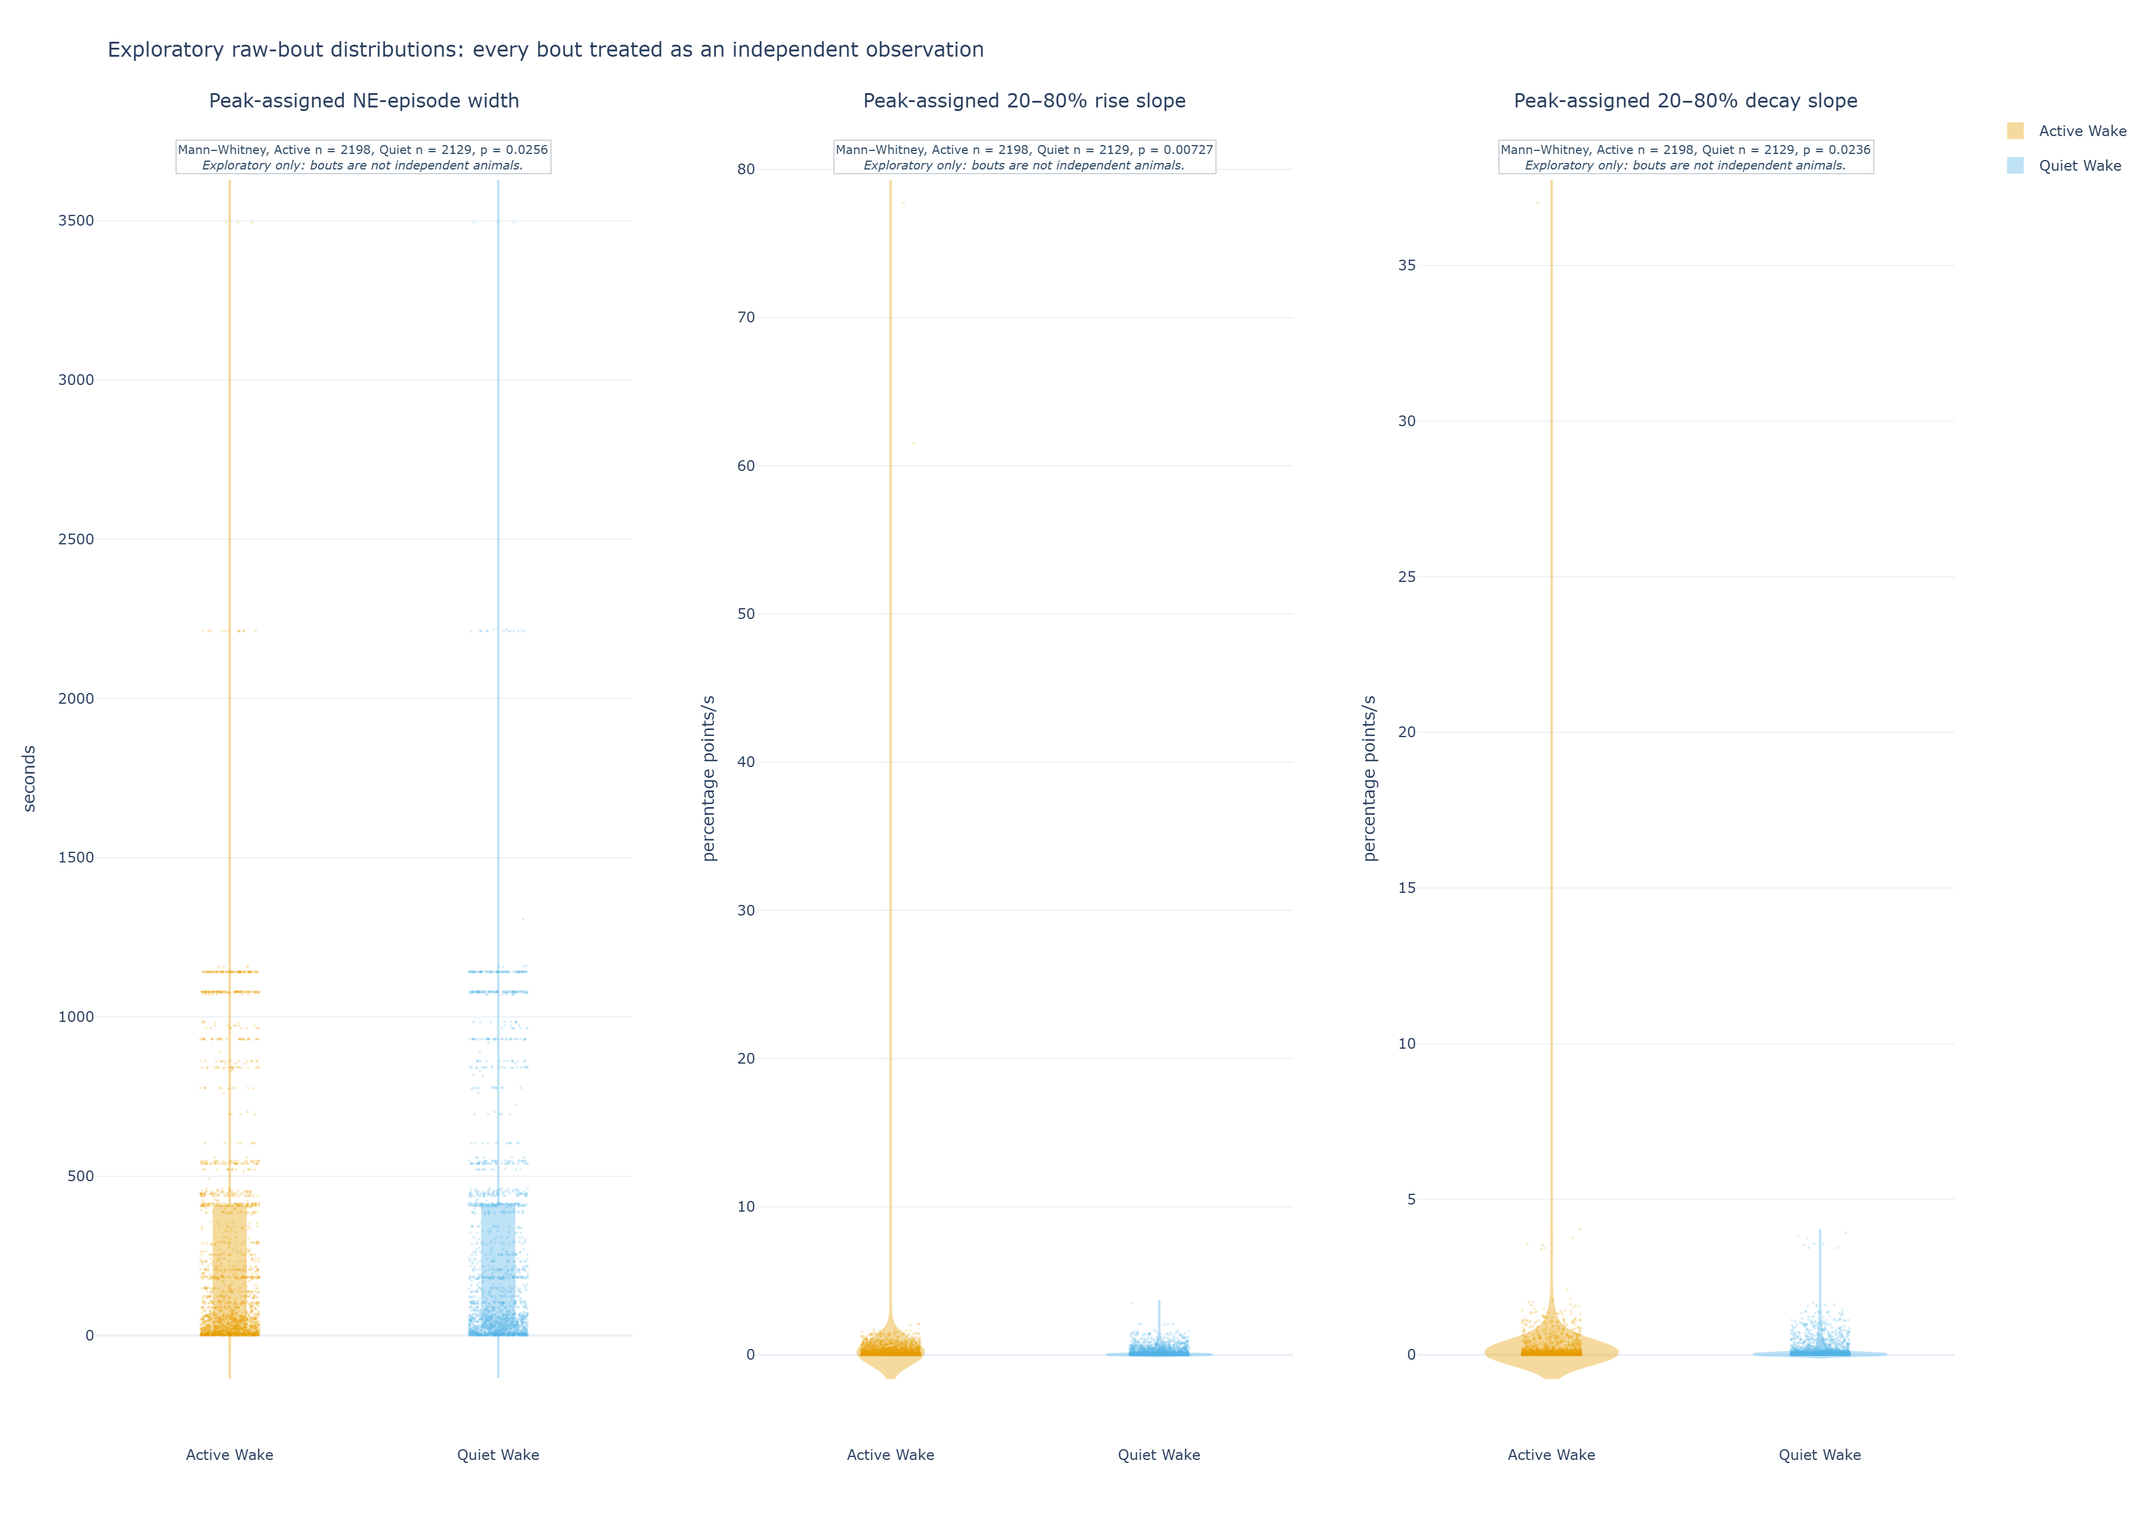
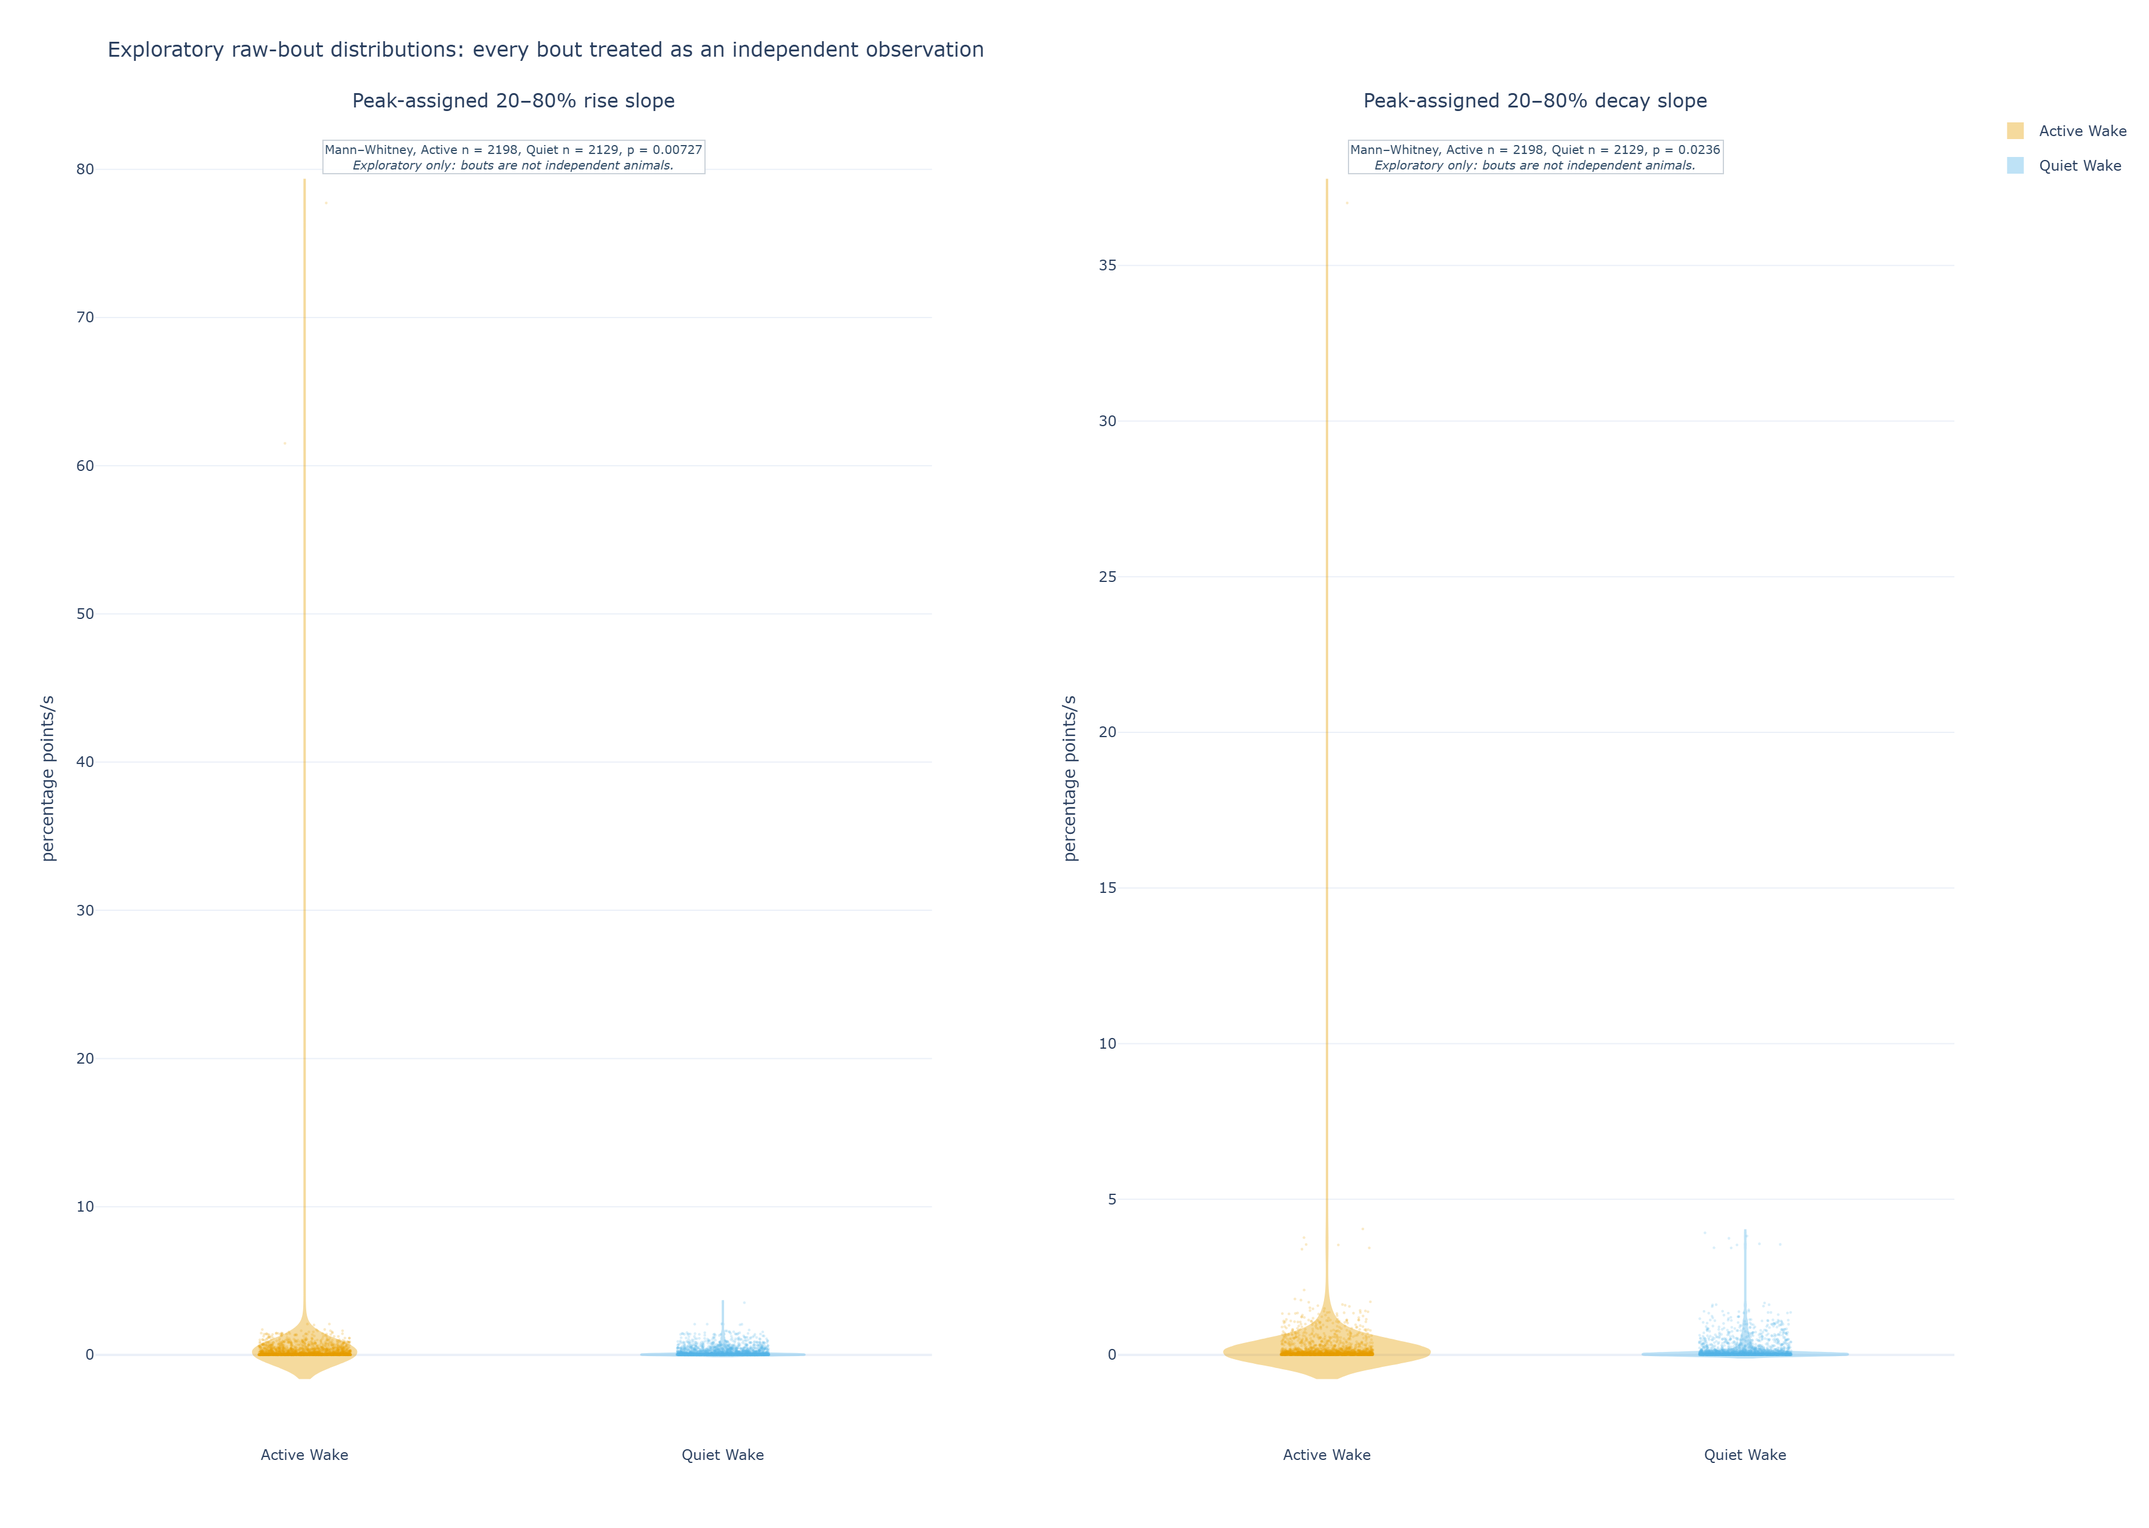
Remove raw shape width from report
- Focus public results on bout means, score geometry, slopes, and spectra
- Retain raw crossing width only as an audit field supporting slope calculations

diff --git a/scripts/render_raw_bout_report_figures.py b/scripts/render_raw_bout_report_figures.py
@@ -19,12 +19,10 @@ RECORDING_METRICS = [
     ("raw_bout_mean", "Mean NE within score bout", "processed NE (percentage delta-F/F)"),
     ("score_bout_duration_seconds", "Actual score-bout duration", "seconds"),
     ("score_bout_count", "Number of score bouts", "count"),
-    ("duration_seconds", "Peak-assigned NE-episode width", "seconds"),
     ("rise_slope", "Peak-assigned 20–80% rise slope", "percentage points/s"),
     ("decay_slope", "Peak-assigned 20–80% decay slope", "percentage points/s"),
 ]
 INDEPENDENT_BOUT_METRICS = [
-    ("duration_seconds", "Peak-assigned NE-episode width", "seconds"),
     ("rise_slope", "Peak-assigned 20–80% rise slope", "percentage points/s"),
     ("decay_slope", "Peak-assigned 20–80% decay slope", "percentage points/s"),
 ]
@@ -155,7 +153,7 @@ def raw_bout_mean_example_figure(bouts: pd.DataFrame):
         annotation_font={"size": 11, "color": "#05668d"},
     )
     figure.add_annotation(
-        x=chosen.peak_seconds, y=chosen.raw_peak, text="Peak anchors episode width/slopes",
+        x=chosen.peak_seconds, y=chosen.raw_peak, text="Peak anchors the slope measurements",
         showarrow=True, arrowhead=2, ax=0, ay=-42, bgcolor="rgba(255,255,255,0.92)",
         bordercolor="#334e68", font={"size": 11, "color": "#334e68"},
     )
@@ -172,7 +170,7 @@ def raw_bout_mean_example_figure(bouts: pd.DataFrame):
         x=0.5, y=-0.31, xref="paper", yref="paper",
         text=("Orange = Active Wake; light blue = Quiet Wake; gray = other state. "
               "The dashed line is the reported per-bout mean; no local baseline is applied. "
-              "The marked literal maximum remains only to anchor the peak-assigned width and slopes, whose crossings may cross score boundaries."),
+               "The marked literal maximum remains only to anchor the peak-assigned slopes, whose crossings may cross score boundaries."),
         showarrow=False, font={"size": 12, "color": "#52606d"},
     )
     return figure
@@ -182,9 +180,9 @@ def metric_figure(recordings: pd.DataFrame, results: pd.DataFrame):
     import plotly.graph_objects as go
     from plotly.subplots import make_subplots
 
-    figure = make_subplots(rows=3, cols=2, subplot_titles=[label for _, label, _ in RECORDING_METRICS])
+    figure = make_subplots(rows=2, cols=3, subplot_titles=[label for _, label, _ in RECORDING_METRICS])
     for index, (metric, label, unit) in enumerate(RECORDING_METRICS):
-        row, column = divmod(index, 2)
+        row, column = divmod(index, 3)
         row += 1
         column += 1
         paired = recordings[["recording_id", f"active_wake_{metric}_median", f"quiet_wake_{metric}_median"]].dropna()
@@ -221,7 +219,7 @@ def metric_figure(recordings: pd.DataFrame, results: pd.DataFrame):
     figure.update_layout(
         template="plotly_white",
         title="Exploratory raw-bout comparison: each MAT file treated as one recording",
-        height=1450,
+        height=1000,
         margin={"l": 80, "r": 30, "t": 95, "b": 70},
     )
     return figure
@@ -233,7 +231,7 @@ def independent_bout_metric_figure(bouts: pd.DataFrame, results: pd.DataFrame, s
     from plotly.subplots import make_subplots
 
     figure = make_subplots(
-        rows=1, cols=3, subplot_titles=[label for _, label, _ in INDEPENDENT_BOUT_METRICS]
+        rows=1, cols=2, subplot_titles=[label for _, label, _ in INDEPENDENT_BOUT_METRICS]
     )
     rng = np.random.default_rng(seed)
     for index, (metric, label, unit) in enumerate(INDEPENDENT_BOUT_METRICS):

diff --git a/tests/test_pipeline.py b/tests/test_pipeline.py
@@ -349,10 +349,11 @@ def test_raw_bout_independent_screen_uses_each_eligible_bout():
     bouts, _ = analyze_raw_bouts(source)
     results = independent_bout_results(bouts)
     assert "raw_bout_mean" not in results.metric.tolist()
-    width = results.loc[results.metric == "duration_seconds"].iloc[0]
-    assert width.n_active_bouts == 1
-    assert width.n_quiet_bouts == 1
-    assert np.isfinite(width.p_value)
+    assert "duration_seconds" not in results.metric.tolist()
+    rise = results.loc[results.metric == "rise_slope"].iloc[0]
+    assert rise.n_active_bouts == 1
+    assert rise.n_quiet_bouts == 1
+    assert np.isfinite(rise.p_value)
 
 
 def test_raw_spectral_screen_uses_common_start_windows(tmp_path):

diff --git a/wake_ne_analysis/raw_bouts.py b/wake_ne_analysis/raw_bouts.py
@@ -28,12 +28,11 @@ from .transients import crossing
 # peak-assigned episode width and slopes.  It is not a reported comparison metric:
 # the recording-level signal measure is the mean saved NE value in each score run.
 RAW_METRICS = ("raw_bout_mean", "duration_seconds", "rise_slope", "decay_slope")
-INDEPENDENT_BOUT_METRICS = ("duration_seconds", "rise_slope", "decay_slope")
+INDEPENDENT_BOUT_METRICS = ("rise_slope", "decay_slope")
 RECORDING_METRICS = (
     "raw_bout_mean",
     "score_bout_duration_seconds",
     "score_bout_count",
-    "duration_seconds",
     "rise_slope",
     "decay_slope",
 )

diff --git a/docs/preliminary_recording_report.md b/docs/preliminary_recording_report.md
@@ -20,7 +20,7 @@ therefore useful recording units, but not independent biological animals.
   222 (152.5–396.5) and 226.5 (147.5–396.0; p = 0.164).
 - The pooled-bout table and plot intentionally omit mean NE. Different recordings
   can have different signal baselines and shared within-session structure. Pooled
-  widths and slopes are descriptive, pseudoreplicated distributions only.
+  slopes are descriptive, pseudoreplicated distributions only.
 - Short-window spectral power also has no recording-level signal (p = 0.922). All
   20 frequency maxima are band edges (17 at 0.20 Hz; 3 at 0.30 Hz), so no preferred
   frequency is resolved.
@@ -36,12 +36,11 @@ recording-level screens, not independent-mouse inference.
 | Mean processed NE within score bout (percentage delta-F/F) | 1.590 (0.565–2.148) | 1.604 (0.321–2.146) | n = 10 | 0.557; no nominal recording-level difference |
 | **Sleep-score bout duration (s)** | **4 (3–4)** | **2 (1.25–2)** | n = 10 | 0.00391; literal file-median score-run duration |
 | **Number of score bouts** | **222 (152.5–396.5)** | **226.5 (147.5–396.0)** | n = 10 | 0.164; literal file-level count |
-| Zero-referenced, peak-anchored NE shape width (s)† | 133.66 (22.56–350.77) | 137.72 (27.72–389.64) | n = 10 | 0.0645; contextual recording-level screen |
 | Zero-referenced, peak-anchored 20–80% NE rise slope (percentage points/s)† | 0.0545 (0.0301–0.1049) | 0.0631 (0.0301–0.0855) | n = 10 | 0.193; contextual recording-level screen |
 | Zero-referenced, peak-anchored 20–80% NE decay slope (percentage points/s)† | 0.0333 (0.0200–0.0791) | 0.0338 (0.0155–0.0759) | n = 10 | 0.625; contextual recording-level screen |
 
 †The literal within-bout maximum is retained only to anchor the unchanged
-zero-referenced width and slope calculations. It is not the reported signal-level
+zero-referenced slope calculations. It is not the reported signal-level
 comparison. Full shapes can cross saved score boundaries, so they are not
 sleep-score-bout measurements.
 
@@ -52,7 +51,6 @@ bouts only and must not be used as biological inference.
 | Reported measure | Active Wake | Quiet Wake | Active observations | Quiet observations | Nominal Mann–Whitney p-value |
 |---|---:|---:|---:|---:|---:|
 | **Sleep-score bout duration (s)** | **4 (2–10)** | **1 (1–3)** | 2,871 | 2,904 | 9.37 × 10⁻¹⁷⁴ |
-| Zero-referenced, peak-anchored NE shape width (s)† | 68.85 (14.97–406.99) | 87.64 (18.82–412.10) | 2,198 | 2,129 | 0.0256 |
 | Zero-referenced, peak-anchored 20–80% NE rise slope (percentage points/s)† | 0.0627 (0.0114–0.3149) | 0.0528 (0.0095–0.2660) | 2,198 | 2,129 | 0.00727 |
 | Zero-referenced, peak-anchored 20–80% NE decay slope (percentage points/s)† | 0.0434 (0.0081–0.1409) | 0.0334 (0.0069–0.1341) | 2,198 | 2,129 | 0.0236 |
 
@@ -117,17 +115,16 @@ waveform or the shape measurements below.
 ![Within-bout mean NE example](assets/recording_report_20260917/raw_bout_mean_example.png)
 
 **Figure 1.** The dashed line is the reported mean NE for the outlined Quiet score
-run. The marked maximum is retained only to define the existing zero-referenced shape
-width and slopes.
+run. The marked maximum is retained only to define the existing zero-referenced
+slopes.
 
-### Peak-anchored shape width and slopes
+### Peak-anchored slopes
 
 The preserved shape metrics choose the literal maximum inside each labelled run and
 locate 20% and 80% crossings relative to that raw, zero reference across the
-continuous finite trace. Width is the 20%-to-20% time; slopes are central 20–80%
-secants, reported as positive rise and decay magnitudes. They are not local-baseline
-event kinetics, T1/2 values, or score-bout durations, and their support can cross a
-score boundary.
+continuous finite trace. The reported slopes are central 20–80% secants, expressed
+as positive rise and decay magnitudes. They are not local-baseline event kinetics,
+T1/2 values, or score-bout durations, and their support can cross a score boundary.
 
 ### Short-window spectral power and frequency maximum
 
@@ -147,7 +144,7 @@ edge maxima are unresolved rather than rhythms.
 
 Figure 2 shows all ten file-level Active/Quiet pairs. The within-bout mean-NE panel
 has no nominal difference. Duration is shorter in Quiet Wake, while the number of
-score bouts has no nominal paired difference. Shape panels retain their contextual
+score bouts has no nominal paired difference. Slope panels retain their contextual
 interpretation.
 
 ![Recording-paired metrics](assets/recording_report_20260917/raw_bout_metric_comparisons.png)
@@ -171,8 +168,8 @@ maxima are a feasibility limitation, not a biological frequency finding.
 
 Figure 4 intentionally displays no mean-NE panel. Pooling mean level across files
 would obscure file-specific baseline/scale differences, and no pooled test can turn
-correlated bouts or repeated sessions into independent observations. Width and slope
-panels remain only as raw distributional diagnostics.
+correlated bouts or repeated sessions into independent observations. Slope panels
+remain only as raw distributional diagnostics.
 
 ![Pooled-bout shape distributions](assets/recording_report_20260917/raw_bout_independent_metric_comparisons.png)
 
@@ -195,11 +192,10 @@ within scored bouts. That is not evidence of biological equality. Quiet Wake sco
 runs are shorter and more fragmented under the supplied relative EMG-label method;
 their counts remain comparable because fragmentation creates many short runs.
 
-Width, slope, and spectral measures are preserved without overclaiming them. Slopes
-and spectra retain dependence on processed-signal scale, preprocessing, coverage, and
-session context; frequency maxima are edge constrained. Verified mouse/session
-metadata and a predeclared hierarchical or mouse-level analysis are needed for a
-biological state conclusion.
+Slopes and spectra are preserved without overclaiming them. They retain dependence on
+processed-signal scale, preprocessing, coverage, and session context; frequency
+maxima are edge constrained. Verified mouse/session metadata and a predeclared
+hierarchical or mouse-level analysis are needed for a biological state conclusion.
 
 ## Appendix A: statistical interpretation
 

diff --git a/treaty_docs/next_steps.md b/treaty_docs/next_steps.md
@@ -2,14 +2,27 @@
 
 ## Currently Hot
 
+- **Joint EEG + EMG + NE UMAP (first pass):** build a deliberately small,
+  exploratory joint map from the ten current MAT recordings. Use only four
+  predeclared per-second features: log EEG delta (0.5--4 Hz) power, log EEG
+  theta (6--9 Hz) power, 20--200 Hz EMG RMS (capped below Nyquist), and mean
+  saved processed NE. Scale features within recording, balance a maximum of 10
+  displayed seconds per label and recording, fit UMAP without labels, then colour it
+  by final Active Wake, Quiet Wake, MA, NREM, and REM labels. This is a joint
+  physiological visualization, not independent proof of the EMG-derived
+  Active/Quiet split; a future EEG+NE-only, held-out-recording analysis is the
+  independence check. Record inputs, preprocessing, feature coverage, seed,
+  UMAP settings, figure, and descriptive result in `docs/umap_analysis.md`.
+
 - **2026-09-17 recording-level refresh:** the two 2026-09-16 cohort reports are now
   archived under `docs/archived/`; their section structure is the template for the
   replacement. The raw-bout workflow now reports the mean saved processed-NE value
   within each labelled score bout (not its peak), actual score-bout duration, and
   score-bout count in the recording-paired table/figure. The deliberately pooled
   bout table/figure omits mean NE because different recordings can have different
-  signal baselines. Width, 20--80% slopes, and short-window spectral measures keep
-  their existing definitions and qualifications. The user confirmed that the current
+  signal baselines. The zero-referenced width remains in the raw audit output only;
+  20--80% slopes and short-window spectral measures retain their existing
+  qualifications. The user confirmed that the current
   input set is 10 MAT files, and the published report is
   `docs/preliminary_recording_report.md` with figures in
   `docs/assets/recording_report_20260917/`. Do not convert its recording-level or

diff --git a/treaty_docs/work_log.md b/treaty_docs/work_log.md
@@ -2,6 +2,17 @@
 
 ## 2026-09-17
 
+### Remove zero-referenced shape width from public reporting (Codex GPT-5; effort/tokens not reported)
+
+- Removed the confusing zero-referenced, peak-anchored shape-width row and panels
+  from the current report. The underlying crossing times and width remain in the raw
+  audit tables, where they document the retained 20--80% slope calculations.
+- The report now presents only mean NE within score bouts, literal score-bout
+  duration/count, contextual slopes, and spectral measures.
+- Verification:
+  - Regenerated the ten-file report output and static figures.
+  - `python -m pytest --basetemp .pytest_refresh -p no:cacheprovider -q`: 31 passed.
+
 ### Publish refreshed ten-recording report after input-count confirmation (Codex GPT-5; effort/tokens not reported)
 
 - The user confirmed that the intended refreshed input set is 10 MAT files, not 11.
